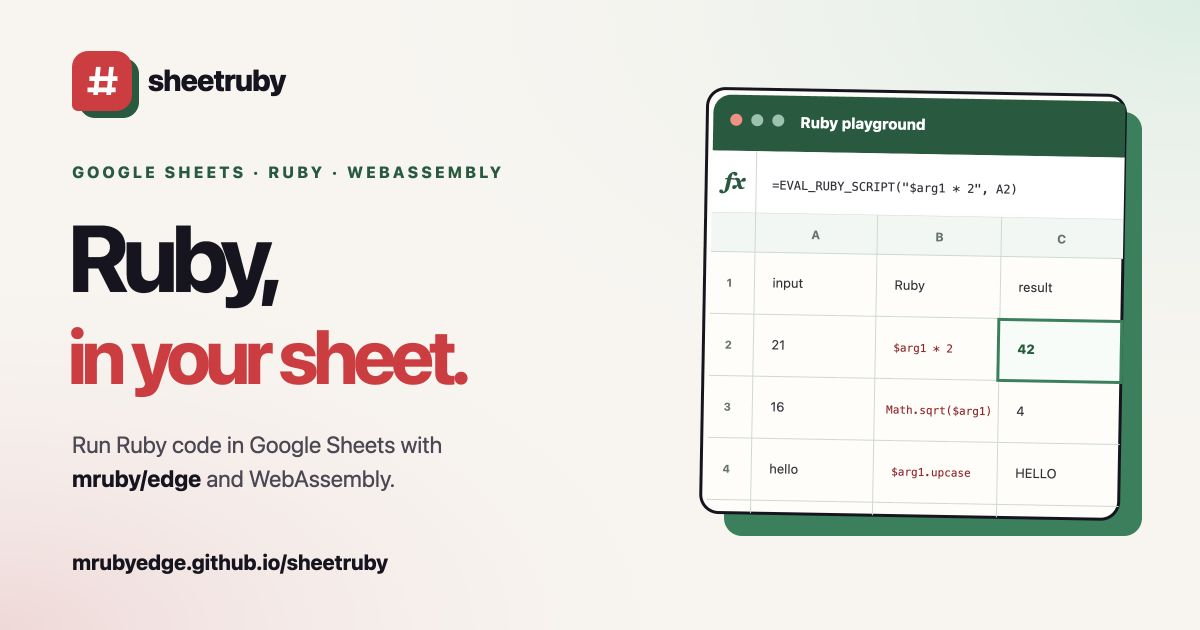
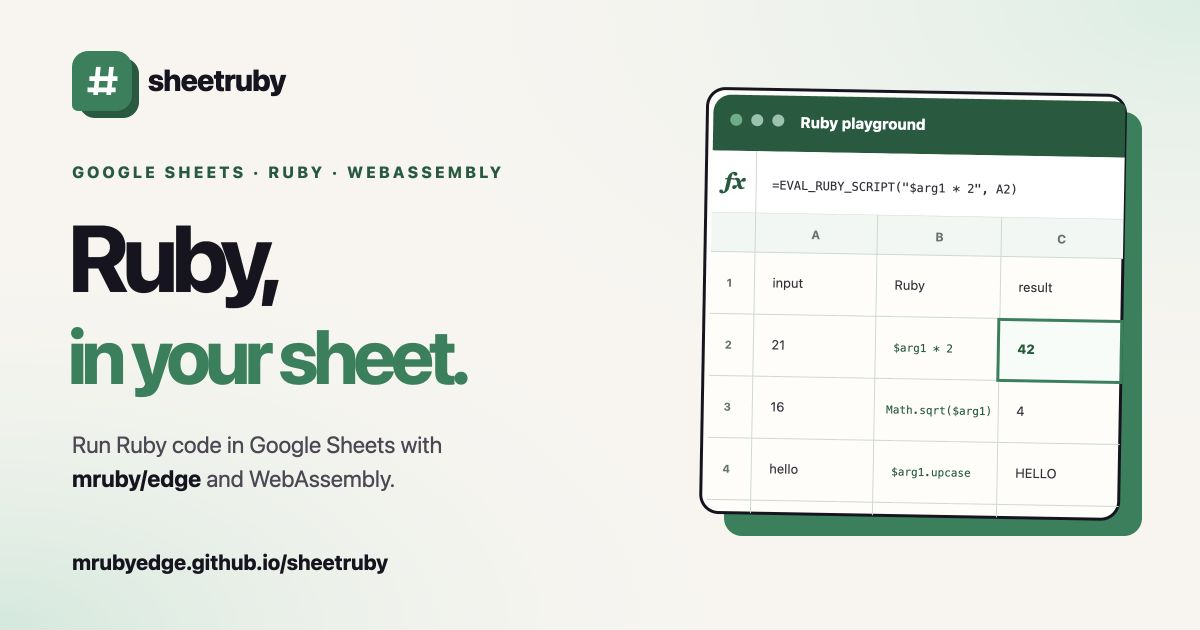
Unify the site in green
Refresh the site palette, icon, favicon, and social preview assets.

diff --git a/docs/index.html b/docs/index.html
@@ -4,7 +4,7 @@
     <meta charset="utf-8">
     <meta name="viewport" content="width=device-width, initial-scale=1">
     <meta name="description" content="sheetruby brings Ruby to Google Sheets as a custom function, powered by mruby/edge and WebAssembly.">
-    <meta name="theme-color" content="#17141f">
+    <meta name="theme-color" content="#0e5b3e">
     <link rel="canonical" href="https://mrubyedge.github.io/sheetruby/">
     <link rel="icon" href="favicon.svg" type="image/svg+xml">
 
@@ -33,8 +33,8 @@
             --muted: #625d69;
             --paper: #f8f5f0;
             --card: #fffdf9;
-            --ruby: #dc2b3a;
-            --ruby-dark: #9e1625;
+            --accent: #16815a;
+            --accent-dark: #0e5b3e;
             --sheet: #16815a;
             --sheet-dark: #0e5b3e;
             --sheet-soft: #dcefe6;
@@ -56,7 +56,7 @@
             color: var(--ink);
             background:
                 radial-gradient(circle at 92% 4%, rgba(22, 129, 90, 0.16), transparent 28rem),
-                radial-gradient(circle at 5% 35%, rgba(220, 43, 58, 0.1), transparent 24rem),
+                radial-gradient(circle at 5% 35%, rgba(82, 174, 129, 0.12), transparent 24rem),
                 var(--paper);
             font-family: Inter, ui-sans-serif, system-ui, -apple-system, BlinkMacSystemFont, "Segoe UI", sans-serif;
             line-height: 1.6;
@@ -120,7 +120,7 @@
             height: 2.1rem;
             place-items: center;
             color: white;
-            background: var(--ruby);
+            background: var(--accent);
             border-radius: 0.55rem 0.55rem 0.55rem 0.16rem;
             box-shadow: 0.22rem 0.22rem 0 var(--sheet-dark);
             font-size: 1rem;
@@ -181,7 +181,7 @@
         }
 
         h1 span {
-            color: var(--ruby);
+            color: var(--accent);
         }
 
         .lede {
@@ -255,7 +255,7 @@
         }
 
         .sheet-dot:first-child {
-            background: #ff8b83;
+            background: #5bae82;
         }
 
         .sheet-name {
@@ -332,7 +332,7 @@
         }
 
         .ruby-cell {
-            color: var(--ruby-dark);
+            color: var(--accent-dark);
             font-family: ui-monospace, SFMono-Regular, Menlo, Consolas, monospace;
             font-size: 0.7rem;
         }
@@ -429,7 +429,7 @@
             background: var(--ink);
             border: 2px solid var(--ink);
             border-radius: 0.85rem;
-            box-shadow: 0.65rem 0.65rem 0 var(--ruby);
+            box-shadow: 0.65rem 0.65rem 0 var(--accent);
         }
 
         .flow-step {
@@ -574,7 +574,7 @@
         }
 
         .ruby-code {
-            color: #ff8d84;
+            color: #7fd3a8;
         }
 
         .result {
